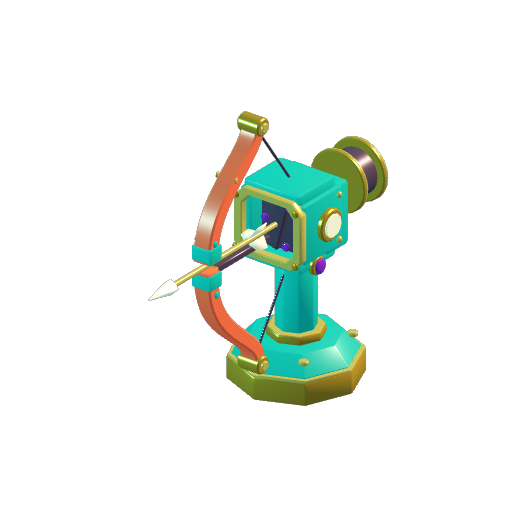
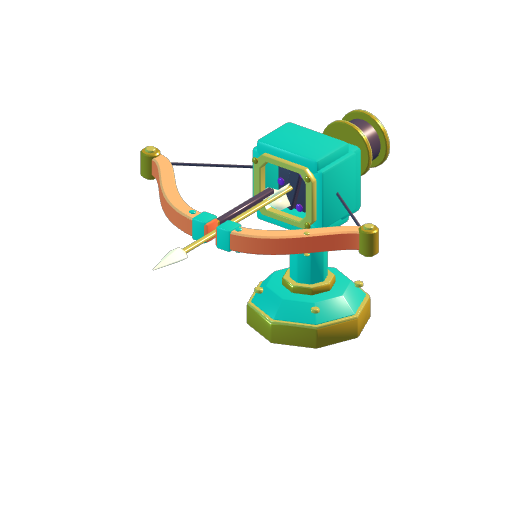
✨ Give bow evolution branches distinct working assemblies

Changed region(s): [[0.25, 0.1875, 0.7812, 0.8125]]

diff --git a/doc/plans/turret-expansion-progress.md b/doc/plans/turret-expansion-progress.md
@@ -73,3 +73,9 @@ Selecting a branch opens a modal portrait, attack description, and before/after 
 `tools/showcase_turret_roster.tscn` runs all ten subject entries with normal turret physics and projectile collision at the default game zoom. It records attributed hits for initial and final forms, then isolates each carried turret after clearing existing shots and burns. It also checks pause prevents damage/projectile movement and cleanup removes enemies, shots and flame ribbons. `--alternate` exercises the Greatbow, Focused Jet and Heavy Roller branches instead of Repeater Bow, Wide Flame and Bank Shot. Reports and initial/final PNGs are saved under `.test-results/roster-*`.
 
 This is a durable stationary-target showcase, not evidence of encounter balance or moving-crowd behavior. Native captures show readable weapon silhouettes, rotating multi-blade forms and multi-angle fire; the largely unchanged chassis on several later forms still require their planned visual evolution pass. Full suite remains 976 passing tests; resource audit covers 192 source files and 37 models.
+
+### Bow visual evolution
+
+Repeater Bow / Volley Ballista / Arrowstorm now use two / three / five authored bow channels on a widened receiver. Each burst launches from its own muzzle and converges on the snapshotted target; all loaded arrows hide and reload together. Greatbow / Harpoon Ballista / Titan Bow use a widening horizontal bow with one / two / three layered limb assemblies and a thicker loaded arrow. The exit remains at the original depth to avoid passing through close targets. No Blender source/export changes: runtime assemblies reuse the frozen authored meshes/materials.
+
+Triangle counts: base 9,688; repeater forms 12,944 / 16,200 / 22,712; heavy forms 9,688 / 12,760 / 15,832. Extra geometry buys distinct channels and laminate silhouettes. Shared materials and mesh resources are reused; draw-call optimization remains a later performance pass. All six portraits rebuilt and reviewed on a dark background. Regression tests cover channel/muzzle correspondence, converging shots, reload visibility, horizontal layers and unchanged muzzle reach. Full suite: 978 passed.
